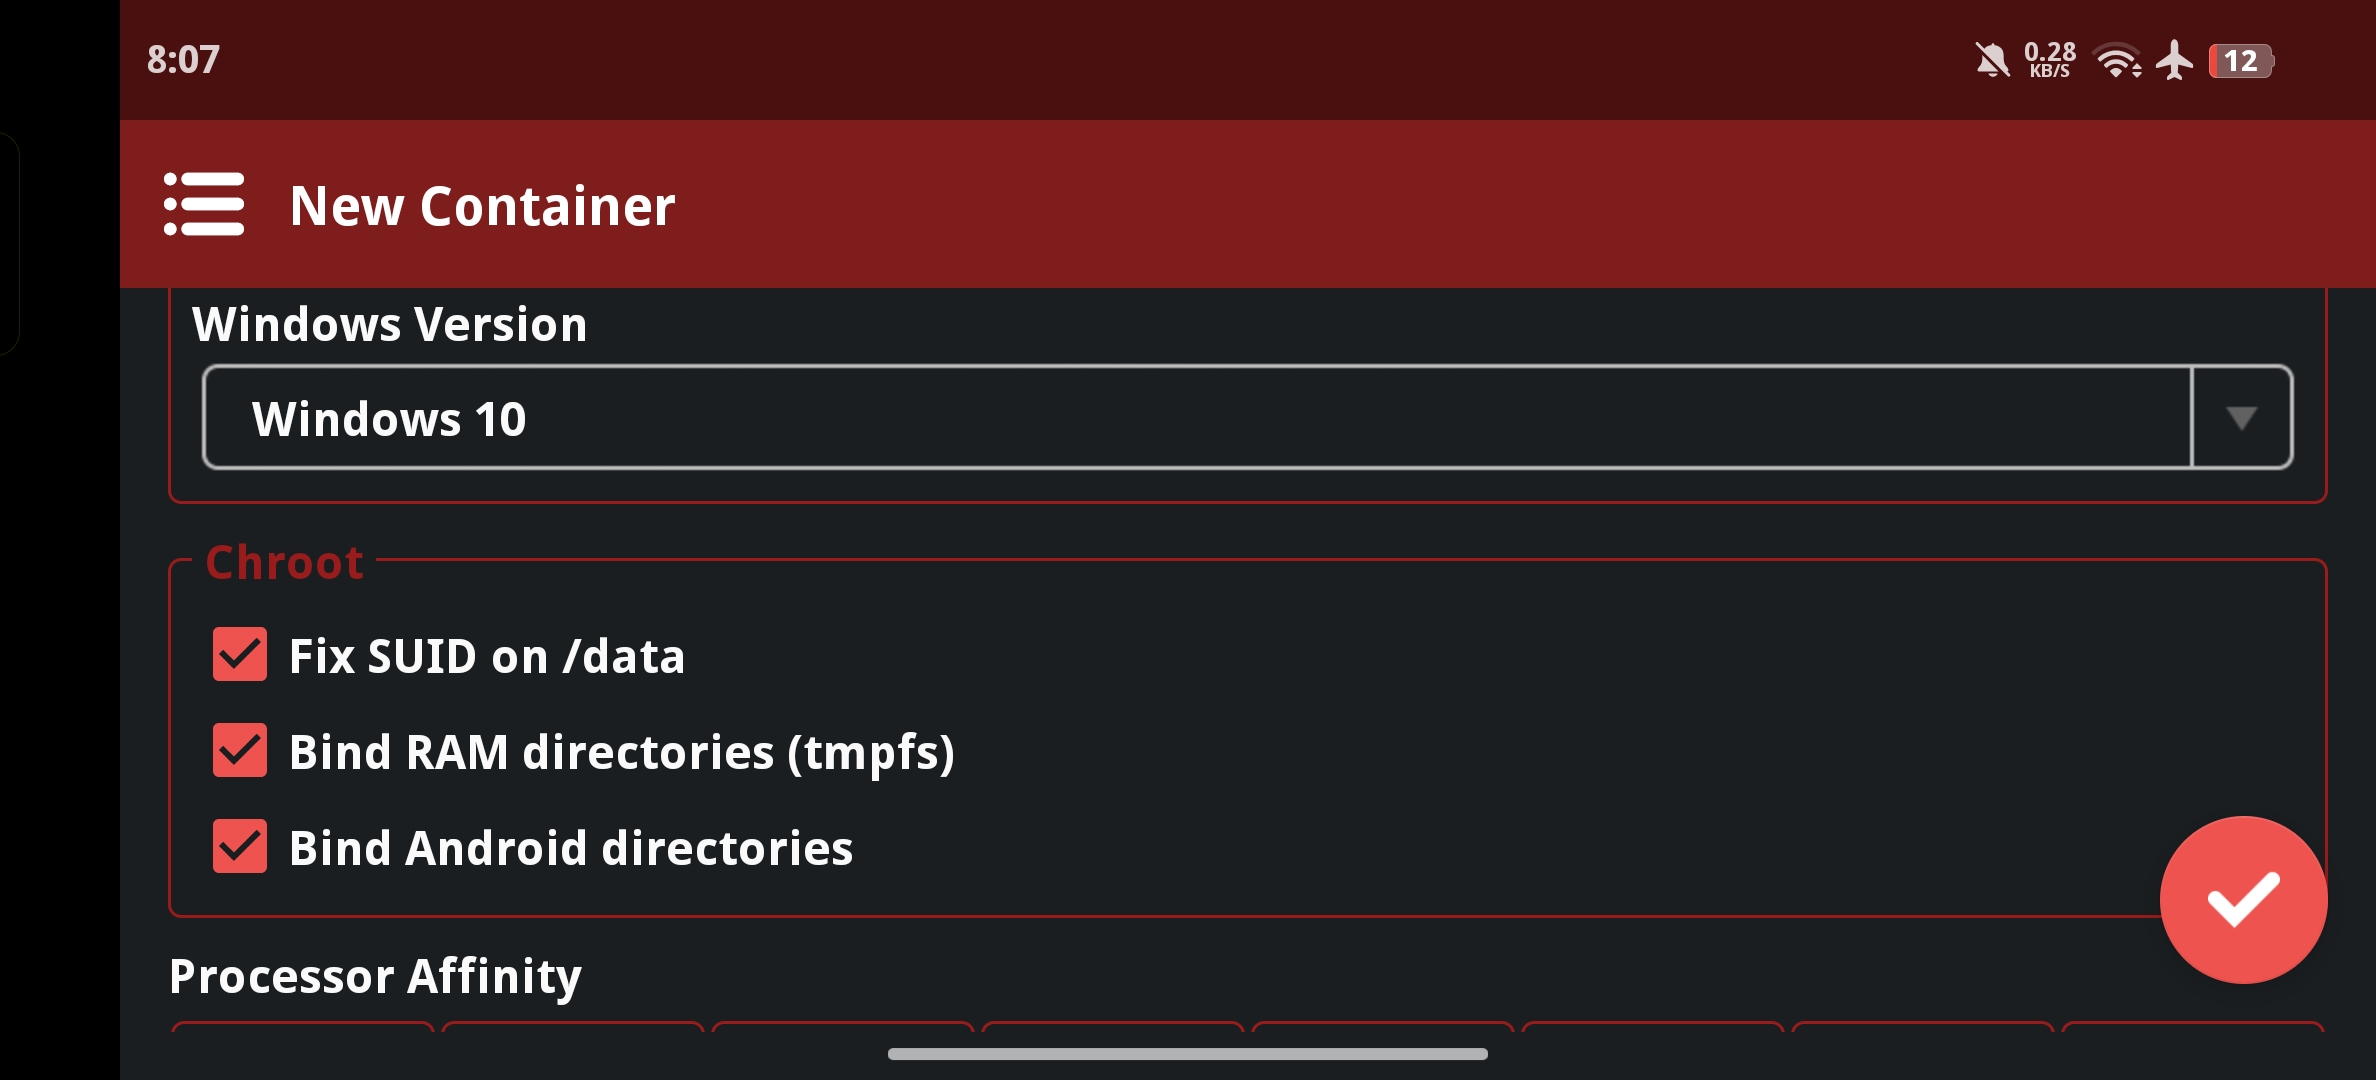
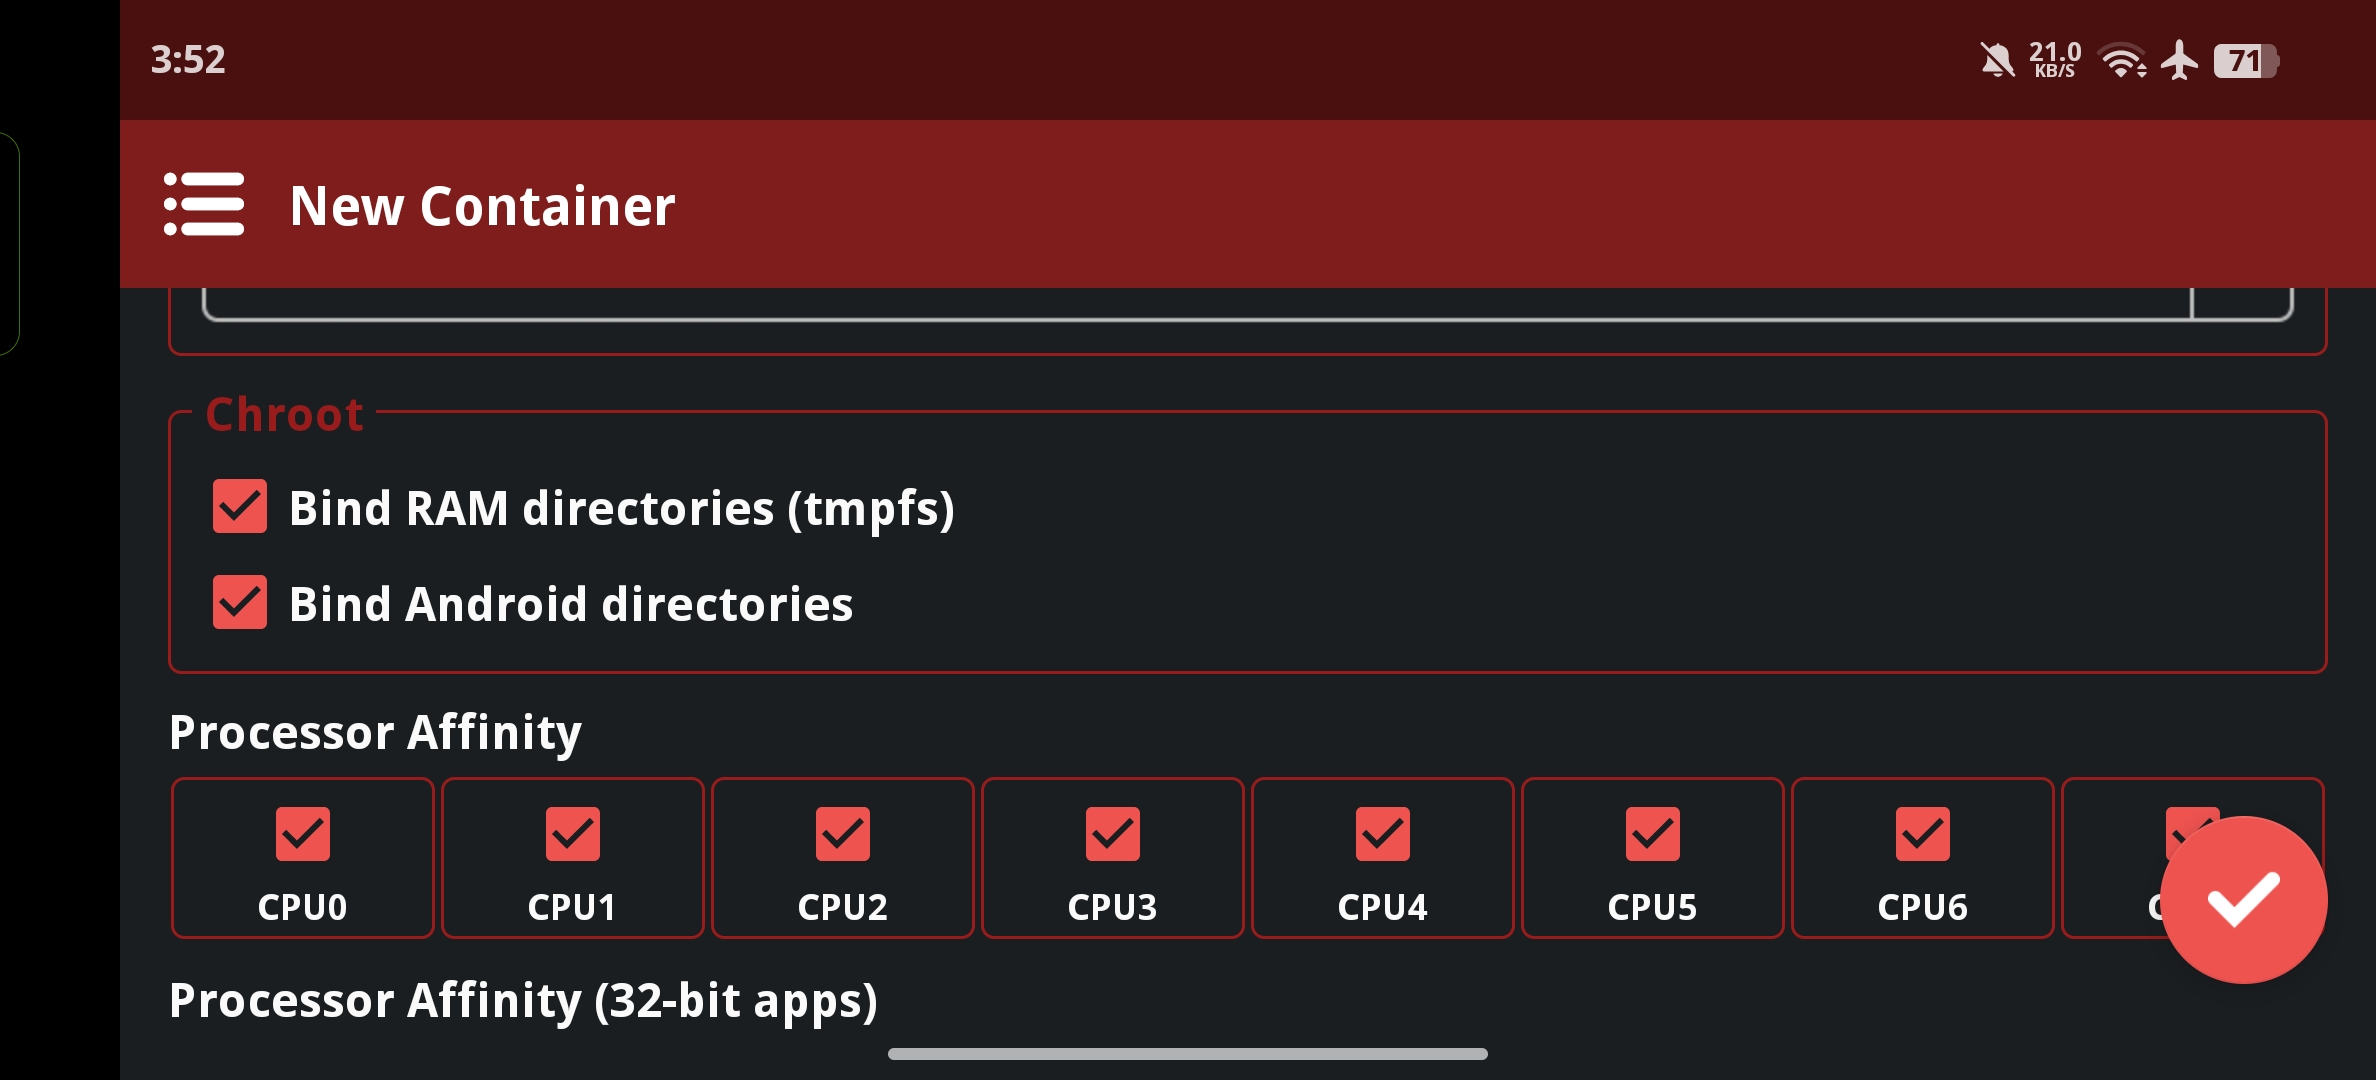
.

Changed region(s): [[0.0623, 0.275, 0.9966, 0.9472], [0.8098, 0.0306, 0.9655, 0.0917], [0.0623, 0.0306, 0.0934, 0.0917]]

diff --git a/README.md b/README.md
@@ -72,7 +72,7 @@ You can download and install *Root Winlator* via one of the following methods:
 - CNC DDraw ([github.com/FunkyFr3sh/cnc-ddraw](https://github.com/FunkyFr3sh/cnc-ddraw))
 - Libsu by [topjohnwu](https://github.com/topjohnwu) [libsu](https://github.com/topjohnwu/libsu)
 - BusyBox binary by [YasserNull](https://github.com/YasserNull) [ndk-box-kitchen](https://github.com/YasserNull/ndk-box-kitchen)
-- Distro launching algorithms from [chroot-distro](https://github.com/Magisk-Modules-Alt-Repo/chroot-distro) by [YasserNull](https://github.com/YasserNull)
+- Distro chroot launching algorithms from [chroot-distro](https://github.com/Magisk-Modules-Alt-Repo/chroot-distro) by [YasserNull](https://github.com/YasserNull)
 
 Special thanks to all the developers involved in these projects.<br>
 Thank you to all the people who believe in this project.
